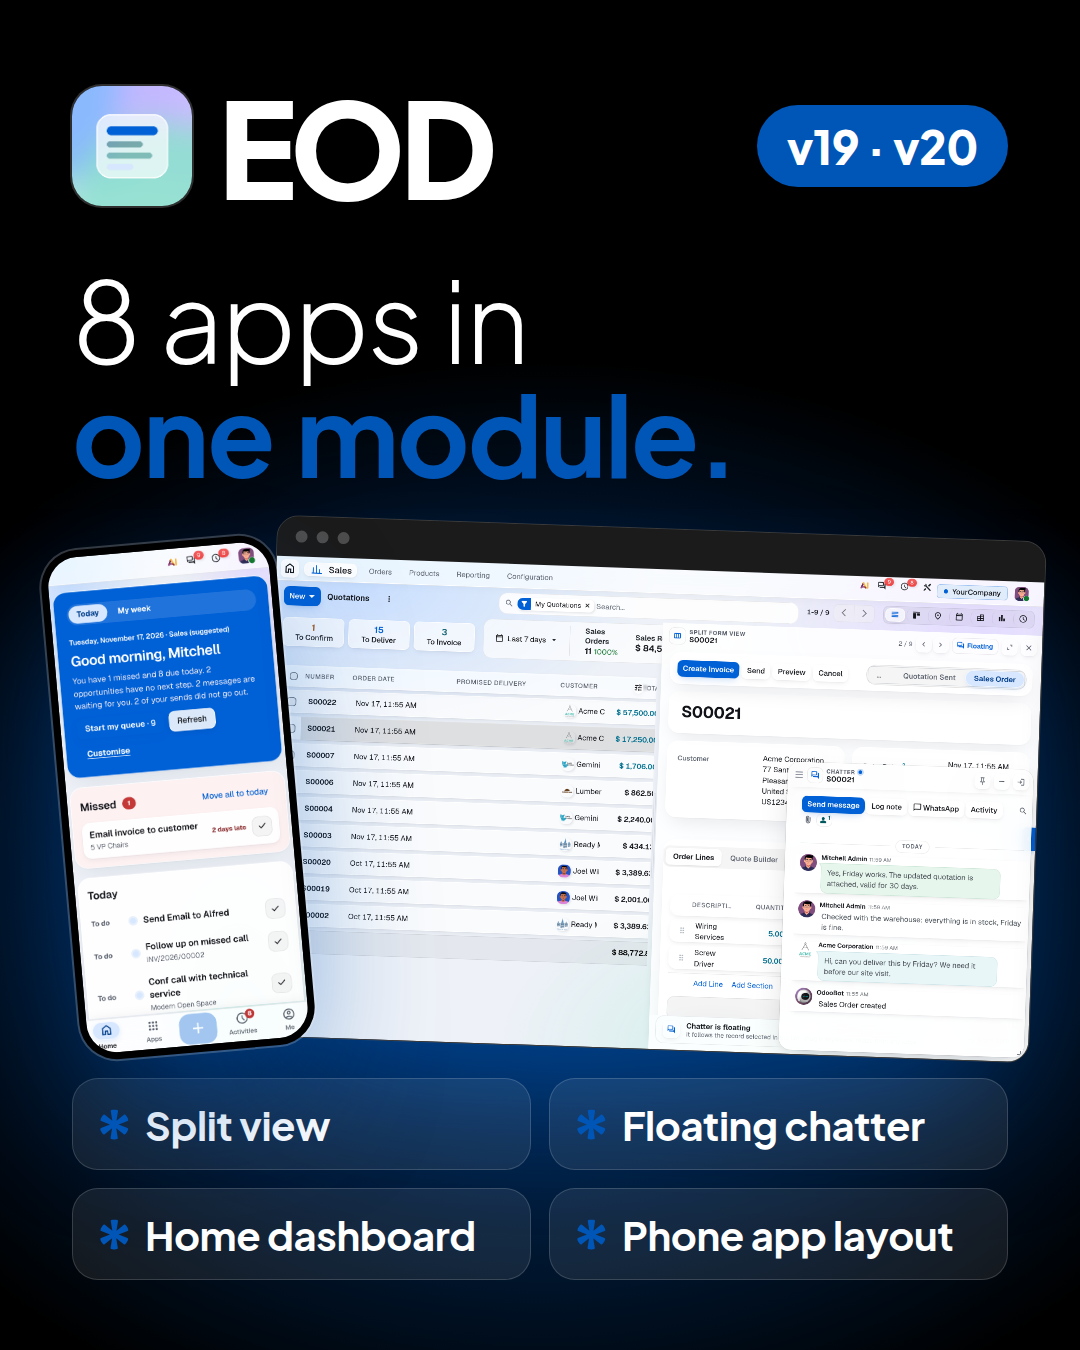
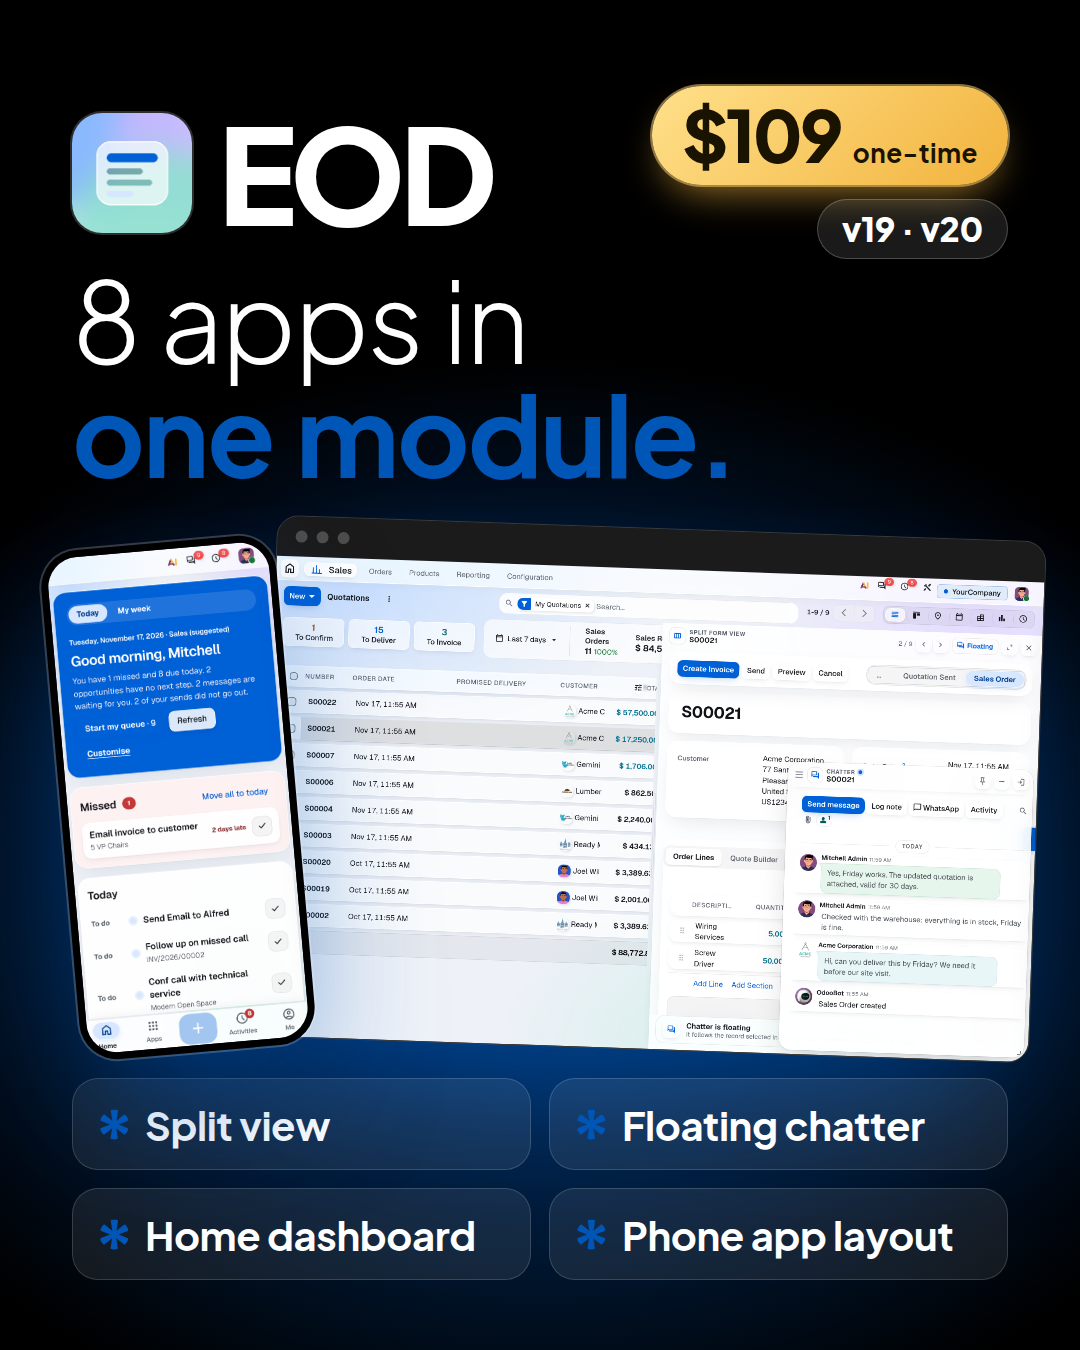
EOD - Glass Backend Theme: $109, Live Preview demo, card with the price
- price 130 -> 109 USD
- live_test_url https://eod.orangeorange.co: the store's Live Preview button at
  the top of the page opens the demo (the only external link the store keeps);
  the page tells visitors to press it
- tall card (theme_screenshot.png) now carries the $109 price

Changed region(s): [[0.5806, 0.0622, 0.9472, 0.2178], [0.2139, 0.0622, 0.4583, 0.1867], [0.0611, 0.0622, 0.1833, 0.1867]]

diff --git a/eod_glass_backend_theme/static/description/index.html b/eod_glass_backend_theme/static/description/index.html
@@ -1,4 +1,4 @@
-<section style="padding:64px 0 28px;text-align:center;"><div style="max-width:1120px;margin:0 auto;padding:0 20px;"><div style="font:600 13px/1 -apple-system,BlinkMacSystemFont,'Segoe UI',Roboto,Helvetica,Arial,sans-serif;letter-spacing:.08em;text-transform:uppercase;color:#0060D6;">EOD for Odoo &#xB7; End Of Day</div><h1 style="font:800 60px/1.04 -apple-system,BlinkMacSystemFont,'Segoe UI',Roboto,Helvetica,Arial,sans-serif;letter-spacing:-.035em;color:#111318;margin:14px 0;">Get to EOD with nothing left open.</h1><p style="font:400 21px/1.5 -apple-system,BlinkMacSystemFont,'Segoe UI',Roboto,Helvetica,Arial,sans-serif;color:#5A606C;margin:0 auto 12px;max-width:36ch;">EOD (End Of Day) turns Odoo into a calm, app-like workspace in your colours, so everyone finishes the day with nothing pending.</p><p style="font:500 14px/1.6 -apple-system,BlinkMacSystemFont,'Segoe UI',Roboto,Helvetica,Arial,sans-serif;color:#5A606C;margin:0 0 34px;">Odoo 19 &amp; 20 &#xB7; Community &amp; Enterprise &#xB7; desktop, tablet and phone</p><img src="banner.png" alt="EOD on desktop and phone" style="display:block;width:100%;height:auto;border-radius:16px;box-shadow:0 22px 50px -20px rgba(16,24,40,.38);"/></div></section>
+<section style="padding:64px 0 28px;text-align:center;"><div style="max-width:1120px;margin:0 auto;padding:0 20px;"><div style="font:600 13px/1 -apple-system,BlinkMacSystemFont,'Segoe UI',Roboto,Helvetica,Arial,sans-serif;letter-spacing:.08em;text-transform:uppercase;color:#0060D6;">EOD for Odoo &#xB7; End Of Day</div><h1 style="font:800 60px/1.04 -apple-system,BlinkMacSystemFont,'Segoe UI',Roboto,Helvetica,Arial,sans-serif;letter-spacing:-.035em;color:#111318;margin:14px 0;">Get to EOD with nothing left open.</h1><p style="font:400 21px/1.5 -apple-system,BlinkMacSystemFont,'Segoe UI',Roboto,Helvetica,Arial,sans-serif;color:#5A606C;margin:0 auto 12px;max-width:36ch;">EOD (End Of Day) turns Odoo into a calm, app-like workspace in your colours, so everyone finishes the day with nothing pending.</p><p style="font:500 14px/1.6 -apple-system,BlinkMacSystemFont,'Segoe UI',Roboto,Helvetica,Arial,sans-serif;color:#5A606C;margin:0 0 34px;">Odoo 19 &amp; 20 &#xB7; Community &amp; Enterprise &#xB7; desktop, tablet and phone</p><p style="font:600 16px/1.5 -apple-system,BlinkMacSystemFont,'Segoe UI',Roboto,Helvetica,Arial,sans-serif;color:#0060D6;background:#EEF4FF;border:1px solid #CFE0FF;border-radius:100px;padding:10px 22px;margin:-14px auto 30px;max-width:640px;">Try it before you buy: press <b>Live Preview</b> at the top to open the demo.</p><img src="banner.png" alt="EOD on desktop and phone" style="display:block;width:100%;height:auto;border-radius:16px;box-shadow:0 22px 50px -20px rgba(16,24,40,.38);"/></div></section>
 <section style="padding:64px 0;background:#F5F8FC;"><div style="max-width:1120px;margin:0 auto;padding:0 20px;"><div style="max-width:760px;margin:0 auto;text-align:center;"><div style="font:600 13px/1 -apple-system,BlinkMacSystemFont,'Segoe UI',Roboto,Helvetica,Arial,sans-serif;letter-spacing:.08em;text-transform:uppercase;color:#0060D6;">Why EOD</div><h2 style="font:800 40px/1.12 -apple-system,BlinkMacSystemFont,'Segoe UI',Roboto,Helvetica,Arial,sans-serif;letter-spacing:-.03em;color:#111318;margin:12px 0 18px;">EOD means End Of Day.</h2><p style="font:400 19px/1.65 -apple-system,BlinkMacSystemFont,'Segoe UI',Roboto,Helvetica,Arial,sans-serif;color:#5A606C;margin:0 0 14px;">Odoo can run your whole company. But the screens your team opens a hundred times a day were built to show everything at once, and on a phone they feel like a website squeezed onto glass.</p><p style="font:400 19px/1.65 -apple-system,BlinkMacSystemFont,'Segoe UI',Roboto,Helvetica,Arial,sans-serif;color:#5A606C;margin:0 0 14px;">EOD is built around one moment: the end of the working day, when everything that needed you is done. Home shows what needs you, Start my queue clears it, split view and floating chatter remove the clicks in between, and a calm frosted look in your colours makes Odoo feel like the best app on your phone, without installing one.</p><p style="font:500 19px/1.65 -apple-system,BlinkMacSystemFont,'Segoe UI',Roboto,Helvetica,Arial,sans-serif;color:#111318;margin:0;">Your data, your workflows and your apps stay exactly as they are. Only the experience changes, and your team feels it on the first click.</p></div><div style="display:flex;flex-wrap:wrap;gap:20px;margin-top:44px;"><div style="flex:1 1 230px;min-width:0;box-sizing:border-box;background:#FFFFFF;border-radius:20px;padding:24px 22px;box-shadow:0 1px 2px rgba(16,24,40,.06),0 12px 30px -16px rgba(16,24,40,.25);"><div style="width:36px;height:6px;border-radius:3px;background:#0060D6;margin-bottom:16px;"></div><div style="font:700 18px/1.3 -apple-system,BlinkMacSystemFont,'Segoe UI',Roboto,Helvetica,Arial,sans-serif;color:#111318;margin-bottom:8px;">Calm by design</div><div style="font:400 15px/1.55 -apple-system,BlinkMacSystemFont,'Segoe UI',Roboto,Helvetica,Arial,sans-serif;color:#5A606C;">One action colour, frosted panes that group what belongs together, and nothing on screen you do not need.</div></div><div style="flex:1 1 230px;min-width:0;box-sizing:border-box;background:#FFFFFF;border-radius:20px;padding:24px 22px;box-shadow:0 1px 2px rgba(16,24,40,.06),0 12px 30px -16px rgba(16,24,40,.25);"><div style="width:36px;height:6px;border-radius:3px;background:#0060D6;margin-bottom:16px;"></div><div style="font:700 18px/1.3 -apple-system,BlinkMacSystemFont,'Segoe UI',Roboto,Helvetica,Arial,sans-serif;color:#111318;margin-bottom:8px;">An app, without the app</div><div style="font:400 15px/1.55 -apple-system,BlinkMacSystemFont,'Segoe UI',Roboto,Helvetica,Arial,sans-serif;color:#5A606C;">On a phone Odoo gets a tab bar, a thumb-reach action dock and full-screen sheets. Nothing to install.</div></div><div style="flex:1 1 230px;min-width:0;box-sizing:border-box;background:#FFFFFF;border-radius:20px;padding:24px 22px;box-shadow:0 1px 2px rgba(16,24,40,.06),0 12px 30px -16px rgba(16,24,40,.25);"><div style="width:36px;height:6px;border-radius:3px;background:#0060D6;margin-bottom:16px;"></div><div style="font:700 18px/1.3 -apple-system,BlinkMacSystemFont,'Segoe UI',Roboto,Helvetica,Arial,sans-serif;color:#111318;margin-bottom:8px;">Your brand, always readable</div><div style="font:400 15px/1.55 -apple-system,BlinkMacSystemFont,'Segoe UI',Roboto,Helvetica,Arial,sans-serif;color:#5A606C;">Colours from your logo or our palettes, every text checked for contrast in light and dark.</div></div><div style="flex:1 1 230px;min-width:0;box-sizing:border-box;background:#FFFFFF;border-radius:20px;padding:24px 22px;box-shadow:0 1px 2px rgba(16,24,40,.06),0 12px 30px -16px rgba(16,24,40,.25);"><div style="width:36px;height:6px;border-radius:3px;background:#0060D6;margin-bottom:16px;"></div><div style="font:700 18px/1.3 -apple-system,BlinkMacSystemFont,'Segoe UI',Roboto,Helvetica,Arial,sans-serif;color:#111318;margin-bottom:8px;">Done by end of day</div><div style="font:400 15px/1.55 -apple-system,BlinkMacSystemFont,'Segoe UI',Roboto,Helvetica,Arial,sans-serif;color:#5A606C;">Home shows what needs you today; Start my queue clears it one task at a time.</div></div></div></div></section>
 <section style="padding:72px 0;"><div style="max-width:1120px;margin:0 auto;padding:0 20px;"><h2 style="font:800 38px/1.12 -apple-system,BlinkMacSystemFont,'Segoe UI',Roboto,Helvetica,Arial,sans-serif;letter-spacing:-.025em;color:#111318;margin:0 0 12px;text-align:center;">What teams say.</h2><div style="display:flex;flex-wrap:wrap;gap:22px;"><div style="flex:1 1 300px;min-width:0;box-sizing:border-box;background:#FFFFFF;border-radius:20px;padding:26px 24px;box-shadow:0 1px 2px rgba(16,24,40,.06),0 12px 30px -16px rgba(16,24,40,.25);"><div style="font:800 44px/0.8 -apple-system,BlinkMacSystemFont,'Segoe UI',Roboto,Helvetica,Arial,sans-serif;color:#0060D6;margin-bottom:6px;">&#x201C;</div><p style="font:400 17px/1.6 -apple-system,BlinkMacSystemFont,'Segoe UI',Roboto,Helvetica,Arial,sans-serif;color:#111318;margin:0 0 16px;">A refreshing transformation of the traditional Odoo backend! The sleek design, elegant visual elements, and polished interface bring a premium feel to the ERP experience. It makes everyday business operations more engaging and visually appealing.</p><div style="font:700 15px/1.3 -apple-system,BlinkMacSystemFont,'Segoe UI',Roboto,Helvetica,Arial,sans-serif;color:#111318;">Moeddin Pullomi</div><div style="font:400 14px/1.3 -apple-system,BlinkMacSystemFont,'Segoe UI',Roboto,Helvetica,Arial,sans-serif;color:#5A606C;">TPGI &#xB7; Saudi Arabia</div></div><div style="flex:1 1 300px;min-width:0;box-sizing:border-box;background:#FFFFFF;border-radius:20px;padding:26px 24px;box-shadow:0 1px 2px rgba(16,24,40,.06),0 12px 30px -16px rgba(16,24,40,.25);"><div style="font:800 44px/0.8 -apple-system,BlinkMacSystemFont,'Segoe UI',Roboto,Helvetica,Arial,sans-serif;color:#0060D6;margin-bottom:6px;">&#x201C;</div><p style="font:400 17px/1.6 -apple-system,BlinkMacSystemFont,'Segoe UI',Roboto,Helvetica,Arial,sans-serif;color:#111318;margin:0 0 16px;">A thoughtfully designed Odoo theme that brings together modern aesthetics and practical usability. The clean layout, intuitive navigation, and well-organized interface create a comfortable working environment, making daily ERP interactions feel effortless.</p><div style="font:700 15px/1.3 -apple-system,BlinkMacSystemFont,'Segoe UI',Roboto,Helvetica,Arial,sans-serif;color:#111318;">Mat Collins</div><div style="font:400 14px/1.3 -apple-system,BlinkMacSystemFont,'Segoe UI',Roboto,Helvetica,Arial,sans-serif;color:#5A606C;">SG IOT &#xB7; Australia</div></div><div style="flex:1 1 300px;min-width:0;box-sizing:border-box;background:#FFFFFF;border-radius:20px;padding:26px 24px;box-shadow:0 1px 2px rgba(16,24,40,.06),0 12px 30px -16px rgba(16,24,40,.25);"><div style="font:800 44px/0.8 -apple-system,BlinkMacSystemFont,'Segoe UI',Roboto,Helvetica,Arial,sans-serif;color:#0060D6;margin-bottom:6px;">&#x201C;</div><p style="font:400 17px/1.6 -apple-system,BlinkMacSystemFont,'Segoe UI',Roboto,Helvetica,Arial,sans-serif;color:#111318;margin:0 0 16px;">An impressive redesign of the Odoo backend that strikes a great balance between sophistication and functionality. The refined styling, contemporary appearance, and attention to visual detail give the platform a distinctive, professional identity.</p><div style="font:700 15px/1.3 -apple-system,BlinkMacSystemFont,'Segoe UI',Roboto,Helvetica,Arial,sans-serif;color:#111318;">Yash Baya</div><div style="font:400 14px/1.3 -apple-system,BlinkMacSystemFont,'Segoe UI',Roboto,Helvetica,Arial,sans-serif;color:#5A606C;">SF International &#xB7; Hong Kong</div></div></div></div></section>
 <section style="padding:56px 0;"><div style="max-width:1120px;margin:0 auto;padding:0 20px;display:flex;flex-wrap:wrap;gap:40px;align-items:center;"><div style="flex:1 1 300px;min-width:0;"><div style="font:600 13px/1 -apple-system,BlinkMacSystemFont,'Segoe UI',Roboto,Helvetica,Arial,sans-serif;letter-spacing:.08em;text-transform:uppercase;color:#0060D6;">Split view</div><h2 style="font:700 34px/1.12 -apple-system,BlinkMacSystemFont,'Segoe UI',Roboto,Helvetica,Arial,sans-serif;letter-spacing:-.02em;color:#111318;margin:10px 0 12px;">Review without leaving the list.</h2><p style="font:400 18px/1.5 -apple-system,BlinkMacSystemFont,'Segoe UI',Roboto,Helvetica,Arial,sans-serif;color:#5A606C;margin:0;max-width:34ch;">The list on one side, the record on the other, its conversation docked right below.</p><ul style="font:400 16px/1.75 -apple-system,BlinkMacSystemFont,'Segoe UI',Roboto,Helvetica,Arial,sans-serif;color:#5A606C;padding-left:20px;margin:16px 0 0;"><li>Step through records with the arrow keys</li><li>Confirm, approve, move on: the list keeps its place</li><li>Chatter docked in the panel, or floating: your choice</li></ul></div><div style="flex:2 1 560px;min-width:0;"><img src="gif_split_review.gif" alt="Quotations reviewed in split view, chatter docked below the form" style="display:block;width:100%;height:auto;"/></div></div></section>

diff --git a/eod_glass_backend_theme/__manifest__.py b/eod_glass_backend_theme/__manifest__.py
@@ -30,8 +30,9 @@ EOD - Backend Theme (web_theme_eod) keeps every setting.
     "author": "Albatross",
     "website": "https://albatross.work/",
     "support": "connect@albatross.work",
+    "live_test_url": "https://eod.orangeorange.co",
     "license": "OPL-1",
-    "price": 130.0,
+    "price": 109.0,
     "currency": "USD",
     "depends": [
         "web",
